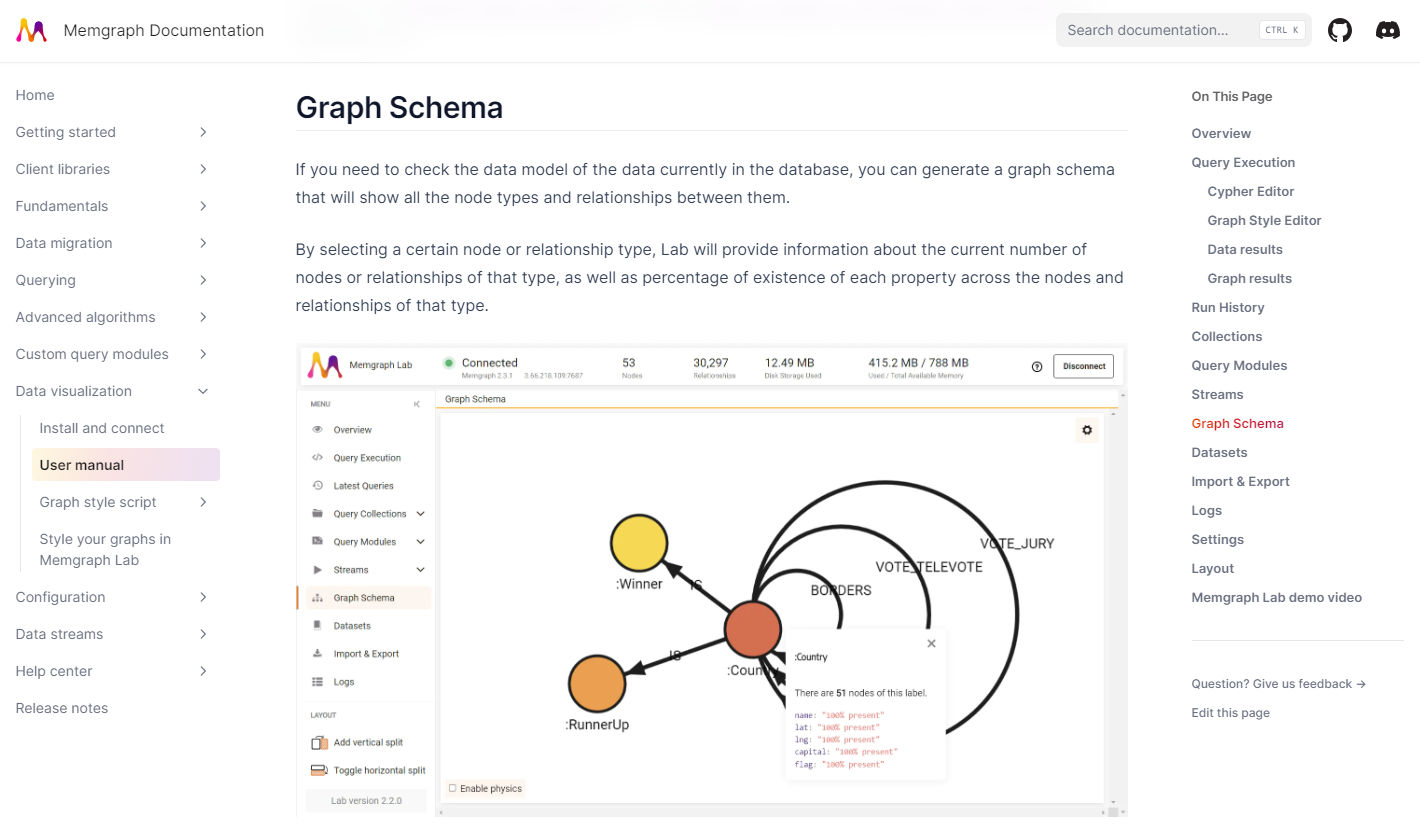
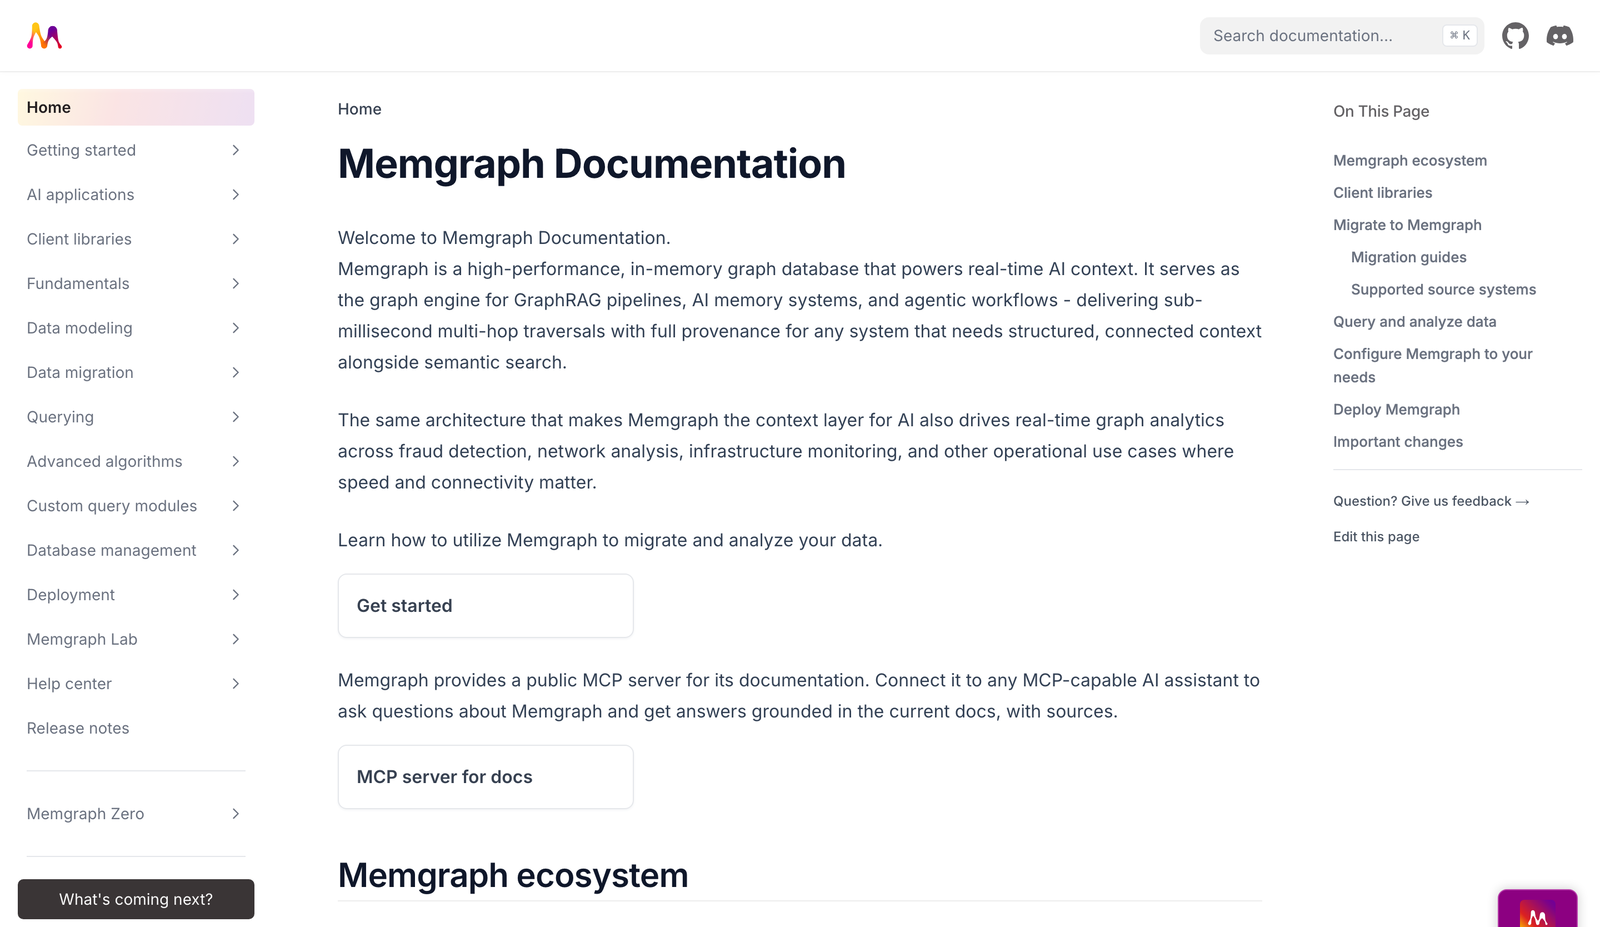
update: Replace the outdated README screenshot with the current docs home page

diff --git a/README.md b/README.md
@@ -9,9 +9,8 @@
 <p align="center">
   <a href="https://memgraph.com/docs">
     <img src=".github/images/memgraph-documentation.png"
-         alt="memgraph-docs"
-         title="memgraph-docs"
-         style="width: 60%"/>
+         alt="The Memgraph documentation home page, with the sidebar of docs sections"
+         style="width: 80%"/>
   </a>
 </p>
 
